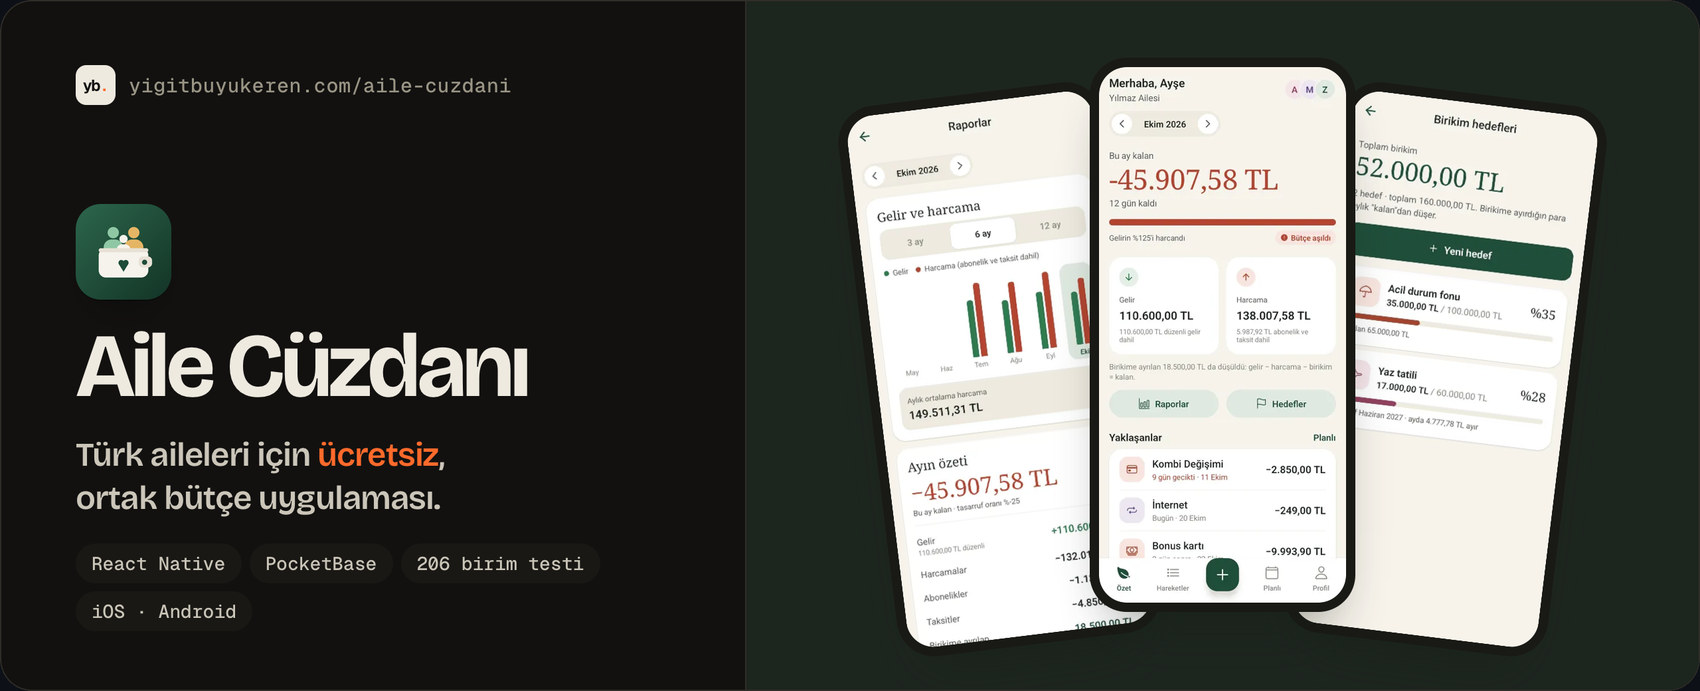
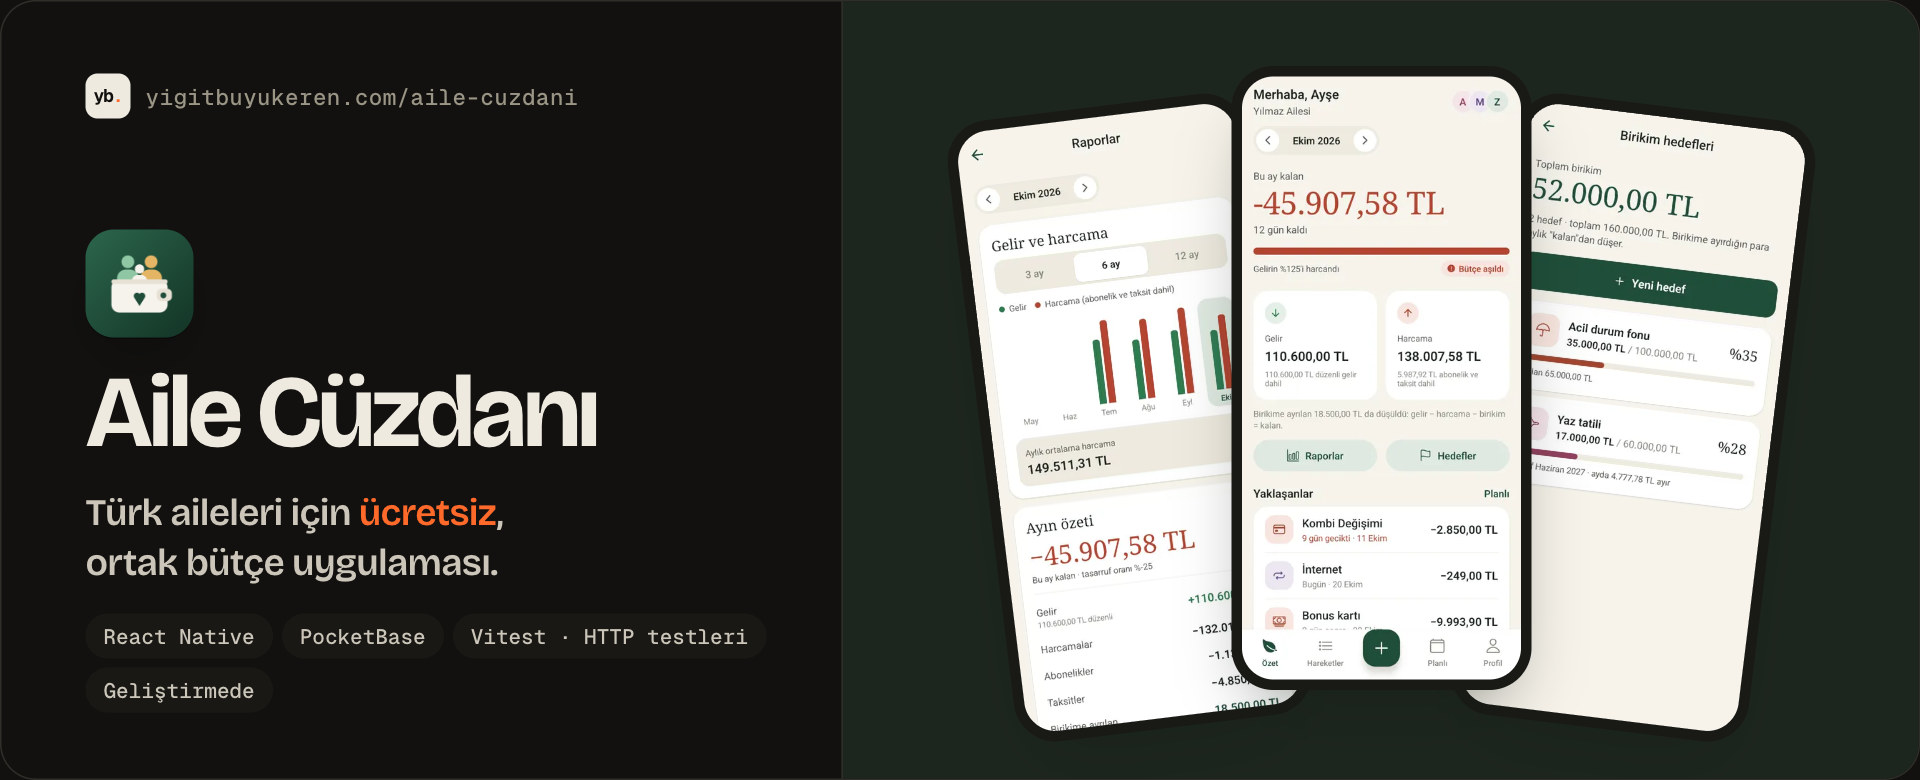
docs: bütçe uygulaması tanıtımını güncel durumla eşleştir

diff --git a/README.md b/README.md
@@ -1,7 +1,7 @@
 <a href="https://yigitbuyukeren.com/aile-cuzdani/">
   <picture>
     <source media="(prefers-color-scheme: dark)" srcset="banner-dark.jpg">
-    <img src="banner-light.jpg" width="100%" alt="Aile Cüzdanı: Türk aileleri için ücretsiz, ortak bütçe uygulaması. React Native, PocketBase, 206 birim testi. Geliştirmede, mağazada yayında değil.">
+    <img src="banner-light.jpg" width="100%" alt="Aile Cüzdanı: Türk aileleri için ücretsiz, ortak bütçe uygulaması. React Native, PocketBase, 764 birim testi. Geliştirmede, mağazada yayında değil.">
   </picture>
 </a>
 
@@ -12,8 +12,8 @@
 ![Durum](https://img.shields.io/badge/durum-geli%C5%9Ftirmede-E8480C?style=flat-square&labelColor=16150F)
 ![Platform](https://img.shields.io/badge/platform-Android%20denendi%20%C2%B7%20iOS%20planl%C4%B1-E8480C?style=flat-square&labelColor=16150F)
 ![Fiyat](https://img.shields.io/badge/fiyat-%C3%BCcretsiz-E8480C?style=flat-square&labelColor=16150F)
-![Birim testi](https://img.shields.io/badge/birim%20testi-206-E8480C?style=flat-square&labelColor=16150F&logo=vitest&logoColor=FCC72B)
-![Entegrasyon](https://img.shields.io/badge/entegrasyon%20kontrol%C3%BC-333-E8480C?style=flat-square&labelColor=16150F)
+![Birim testi](https://img.shields.io/badge/birim%20testi-764-E8480C?style=flat-square&labelColor=16150F&logo=vitest&logoColor=FCC72B)
+![Entegrasyon](https://img.shields.io/badge/entegrasyon%20kontrol%C3%BC-400-E8480C?style=flat-square&labelColor=16150F)
 ![React Native](https://img.shields.io/badge/React%20Native-Expo-E8480C?style=flat-square&labelColor=16150F&logo=react&logoColor=61DAFB)
 ![PocketBase](https://img.shields.io/badge/PocketBase-sunucu-E8480C?style=flat-square&labelColor=16150F&logo=pocketbase&logoColor=B8DBE4)
 
@@ -63,6 +63,8 @@ taksit, abonelik ve birikim hedefleri tek ekranda, ailenin tüm üyeleriyle birl
 - 🔔 **Abonelik ve planlı ödemeler:** yaklaşan ödemeler ve gecikme uyarısı
 - 🏦 **Hesaplar:** nakit, banka ve kredi kartı kayıtları; kart için hesap kesim ve son ödeme günü hatırlatması
 - 🤝 **Borç ve alacak, harcama bölme, yorum:** kimin kime ne kadar borçlu olduğu ve harcamalara not
+- 🔄 **Canlı eşitleme:** uygulama açıkken aile üyelerinin değişikliklerini günceller
+- 👤 **Profil:** fotoğraf veya emoji, arka plan rengi ve destek e-postası girişi
 - 📷 **Fiş fotoğrafı:** isteğe bağlı, yalnızca bütçeyi görebilenlere açık
 - 🪙 **Döviz ve altın:** döviz tutarlı harcama (elle kur), altın veya döviz cinsinden birikim hedefi
 - 🎯 **Birikim hedefleri:** ortak hedefler ve hedef tarihe göre aylık ayırma önerisi
@@ -82,7 +84,7 @@ taksit, abonelik ve birikim hedefleri tek ekranda, ailenin tüm üyeleriyle birl
 |---|---|
 | 📱 **İstemci** | React Native (Expo), TypeScript (strict) |
 | 🗄 **Sunucu** | PocketBase; erişim kuralları ve özel rotalar sunucuda uygulanır. Türkiye'de tek bir VPS, Caddy ile otomatik HTTPS, gece yedeği |
-| ✅ **Test** | Vitest ile 206 birim testi, ayrıca gerçek bir PocketBase'e karşı HTTP seviyesinde 333 entegrasyon kontrolü |
+| ✅ **Test** | Vitest ile 764 birim testi, ayrıca gerçek bir PocketBase'e karşı HTTP seviyesinde 400 entegrasyon kontrolü |
 | 🔔 **Bildirim** | Zamanlayıcı betik (Python), Expo push |
 
 ### 🏗 Mimari
@@ -91,12 +93,12 @@ Kaynak kod özeldir; aşağısı tasarımın özetidir. Gizli anahtar, kullanıc
 
 - **İstemci (React Native / Expo, strict TypeScript):** katmanlı yapı. Ekranlar sunucuya doğrudan konuşmaz; her alan (işlemler, abonelikler, taksitler, aile, özet, dışa aktarma, bildirimler) kendi servis modülünden geçer. Bağlam sağlayıcıları: tema → güvenli alan → kimlik → mod (bireysel/aile) → aile → gezinti. İstemcideki izin kontrolleri yalnızca kullanım kolaylığıdır.
 - **Yetkilendirme:** e-posta + parola ile kimlik doğrulama, parola sıfırlama e-postayla gelen 6 haneli kodla. Asıl yetki **sunucudadır**: koleksiyon erişim kuralları, aile üyeliği ve rol (sahip, üye, çocuk) kontrolü, aile başına üye sınırı ve yoğun denemeye karşı hız sınırı sunucu tarafında uygulanır. İsteğe bağlı biyometrik uygulama kilidi.
-- **Veritabanı:** PocketBase (SQLite). Şema yalnızca sürüm kontrollü, **yalnızca eklenen** migration dosyalarıyla tanımlanır (43 migration); uygulanmış bir migration değiştirilmez. Özel kurallar ve rotalar sunucu kancalarında durur.
+- **Veritabanı:** PocketBase (SQLite). Şema yalnızca sürüm kontrollü, **yalnızca eklenen** migration dosyalarıyla tanımlanır (kaynak kodda 48 migration); uygulanmış bir migration değiştirilmez. Özel kurallar ve rotalar sunucu kancalarında durur.
 - **Bildirimler:** istemci Expo bildirimleri; hatırlatmaları günlük, haftalık ve aylık zamanlayıcılar üreten ayrı bir Python betiği gönderir. Ödeme hatırlatmaları yalnızca kaydın sahibine, haftalık/aylık aile özetleri tüm üyelere gider.
 - **Çevrimdışı:** son veriler önbellekten okunur; yeni işlemler kuyruğa alınır, bağlantı gelince gönderilir.
-- **Test mimarisi (üç katman):** (1) Vitest ile 206 birim testi, tür denetimi ve lint ("0 hata, 0 uyarı" kapısı); (2) sunucu kancaları için kaynak düzeyinde kurallar testi; (3) geçici bir PocketBase örneğine karşı HTTP düzeyinde 333 entegrasyon kontrolü (yetki sınırları, rol kuralları, hız sınırı ve sunucu günlüğünde çalışma zamanı hatası taraması). Entegrasyon kontrolleri yalnızca yerel, atılabilir örneğe karşı çalışır; canlı veritabanına test verisi yazılmaz.
+- **Test mimarisi (üç katman):** (1) Vitest ile 764 birim testi, tür denetimi ve lint ("0 hata, 0 uyarı" kapısı); (2) sunucu kancaları için kaynak düzeyinde kurallar testi; (3) geçici bir PocketBase örneğine karşı HTTP düzeyinde 400 entegrasyon kontrolü (yetki sınırları, rol kuralları, hız sınırı ve sunucu günlüğünde çalışma zamanı hatası taraması). Entegrasyon kontrolleri yalnızca yerel, atılabilir örneğe karşı çalışır; canlı veritabanına test verisi yazılmaz.
 
-**Doğrulama durumu:** yukarıdaki sayılar bu tanıtım güncellenirken yerelde yeniden çalıştırıldı (206 birim testi geçti, tür denetimi ve lint temiz, 333/333 entegrasyon kontrolü geçti). Uygulama Android'de bir telefona kuruldu ve temel akışlar elle denendi; yeni eklenen bazı ekranlar (ör. fiş fotoğrafı, çevrimdışı kuyruk, widget) gerçek cihazda denenmedi. iOS için tam uygulama derlemesi henüz doğrulanmadı. Mağaza yayını yok.
+**Doğrulama kaydı (5 Kasım 2026):** 4 Kasım proje kaydında 764 test, tür denetimi ve lint başarılı; son başarılı HTTP entegrasyon kaydı 1 Kasım’da 400 kontroldür. Kaynak kodda 48 migration bulunur. Son taksit fiyat geçmişi değişikliği için yerel HTTP kontrolleri ortam kısıtı nedeniyle tamamlanamadı; sunucuya dağıtımı da bekliyor. Bu sayılar bu tanıtım güncellemesinde yeniden çalıştırılmış değildir. Uygulama Android'de bir telefona kuruldu ve temel akışlar elle denendi; yeni eklenen bazı ekranlar (ör. fiş fotoğrafı, çevrimdışı kuyruk, widget) gerçek cihazda denenmedi. iOS için tam uygulama derlemesi henüz doğrulanmadı. Mağaza yayını yok.
 
 </details>
 
@@ -119,17 +121,17 @@ your family.
 **Highlights:** shared family budget (up to 5 members, invite code, child role) · recurring income ·
 instalment tracking built around how Turkish households actually pay · subscriptions and
 planned payments · cash, bank and card accounts with statement and due-day reminders · debts and
-expense splitting · optional receipt photos · foreign-currency entries and gold/FX savings goals ·
+expense splitting · optional receipt photos · live family sync while the app is open · photo/emoji profiles · foreign-currency entries and gold/FX savings goals ·
 shared savings goals · category limits plus an overall monthly limit with alerts · 3/6/12-month
 reports as PDF · offline cache with a queue for new entries · Android widget and app shortcuts ·
 app lock · full data export · account deletion · Turkish UI with light and dark themes.
 
 **Stack:** React Native (Expo) · TypeScript (strict) · PocketBase · Python notification
-scheduler · 206 Vitest unit tests plus 333 HTTP-level integration checks against a real
+scheduler · 764 Vitest unit tests plus 400 HTTP-level integration checks against a real
 PocketBase, running on a single VPS behind Caddy.
 
-**Architecture in short:** layered React Native client (screens never talk to the backend directly; one service module per domain), PocketBase backend where authorization is enforced **on the server** (collection access rules, family membership and roles, per-family member limit, rate limiting), append-only versioned migrations (43), Expo push notifications driven by a separate scheduler, and a three-layer test setup: unit tests, hook-rule tests and HTTP-level integration checks against a throwaway local PocketBase. The source stays private; no keys, user data or server configuration are published here.
+**Architecture in short:** layered React Native client (screens never talk to the backend directly; one service module per domain), PocketBase backend where authorization is enforced **on the server** (collection access rules, family membership and roles, per-family member limit, rate limiting), append-only versioned migrations (48 in source), Expo push notifications driven by a separate scheduler, and a three-layer test setup: unit tests, hook-rule tests and HTTP-level integration checks against a throwaway local PocketBase. The source stays private; no keys, user data or server configuration are published here.
 
-**Verification:** the test numbers were re-run locally for this update (206 unit tests pass, type check and lint clean, 333/333 integration checks). The app was installed on an Android phone and the core flows were tried by hand; some newer screens (receipt photos, offline queue, widget) have not been tried on a real device, and the full iOS build is not verified. It is not published in any store.
+**Verification record (5 Nov 2026):** the 4 Nov project record reports 764 passing tests, clean type checking and lint; the latest successful HTTP integration record is 400 checks on 1 Nov. There are 48 migrations in source. HTTP checks for the latest installment price-history change were blocked by environment restrictions, and its backend deployment is pending. These suites were not re-run for this showcase update. The app was installed on an Android phone and the core flows were tried by hand; some newer screens (receipt photos, offline queue, widget) have not been tried on a real device, and the full iOS build is not verified. It is not published in any store.
 
 </details>
